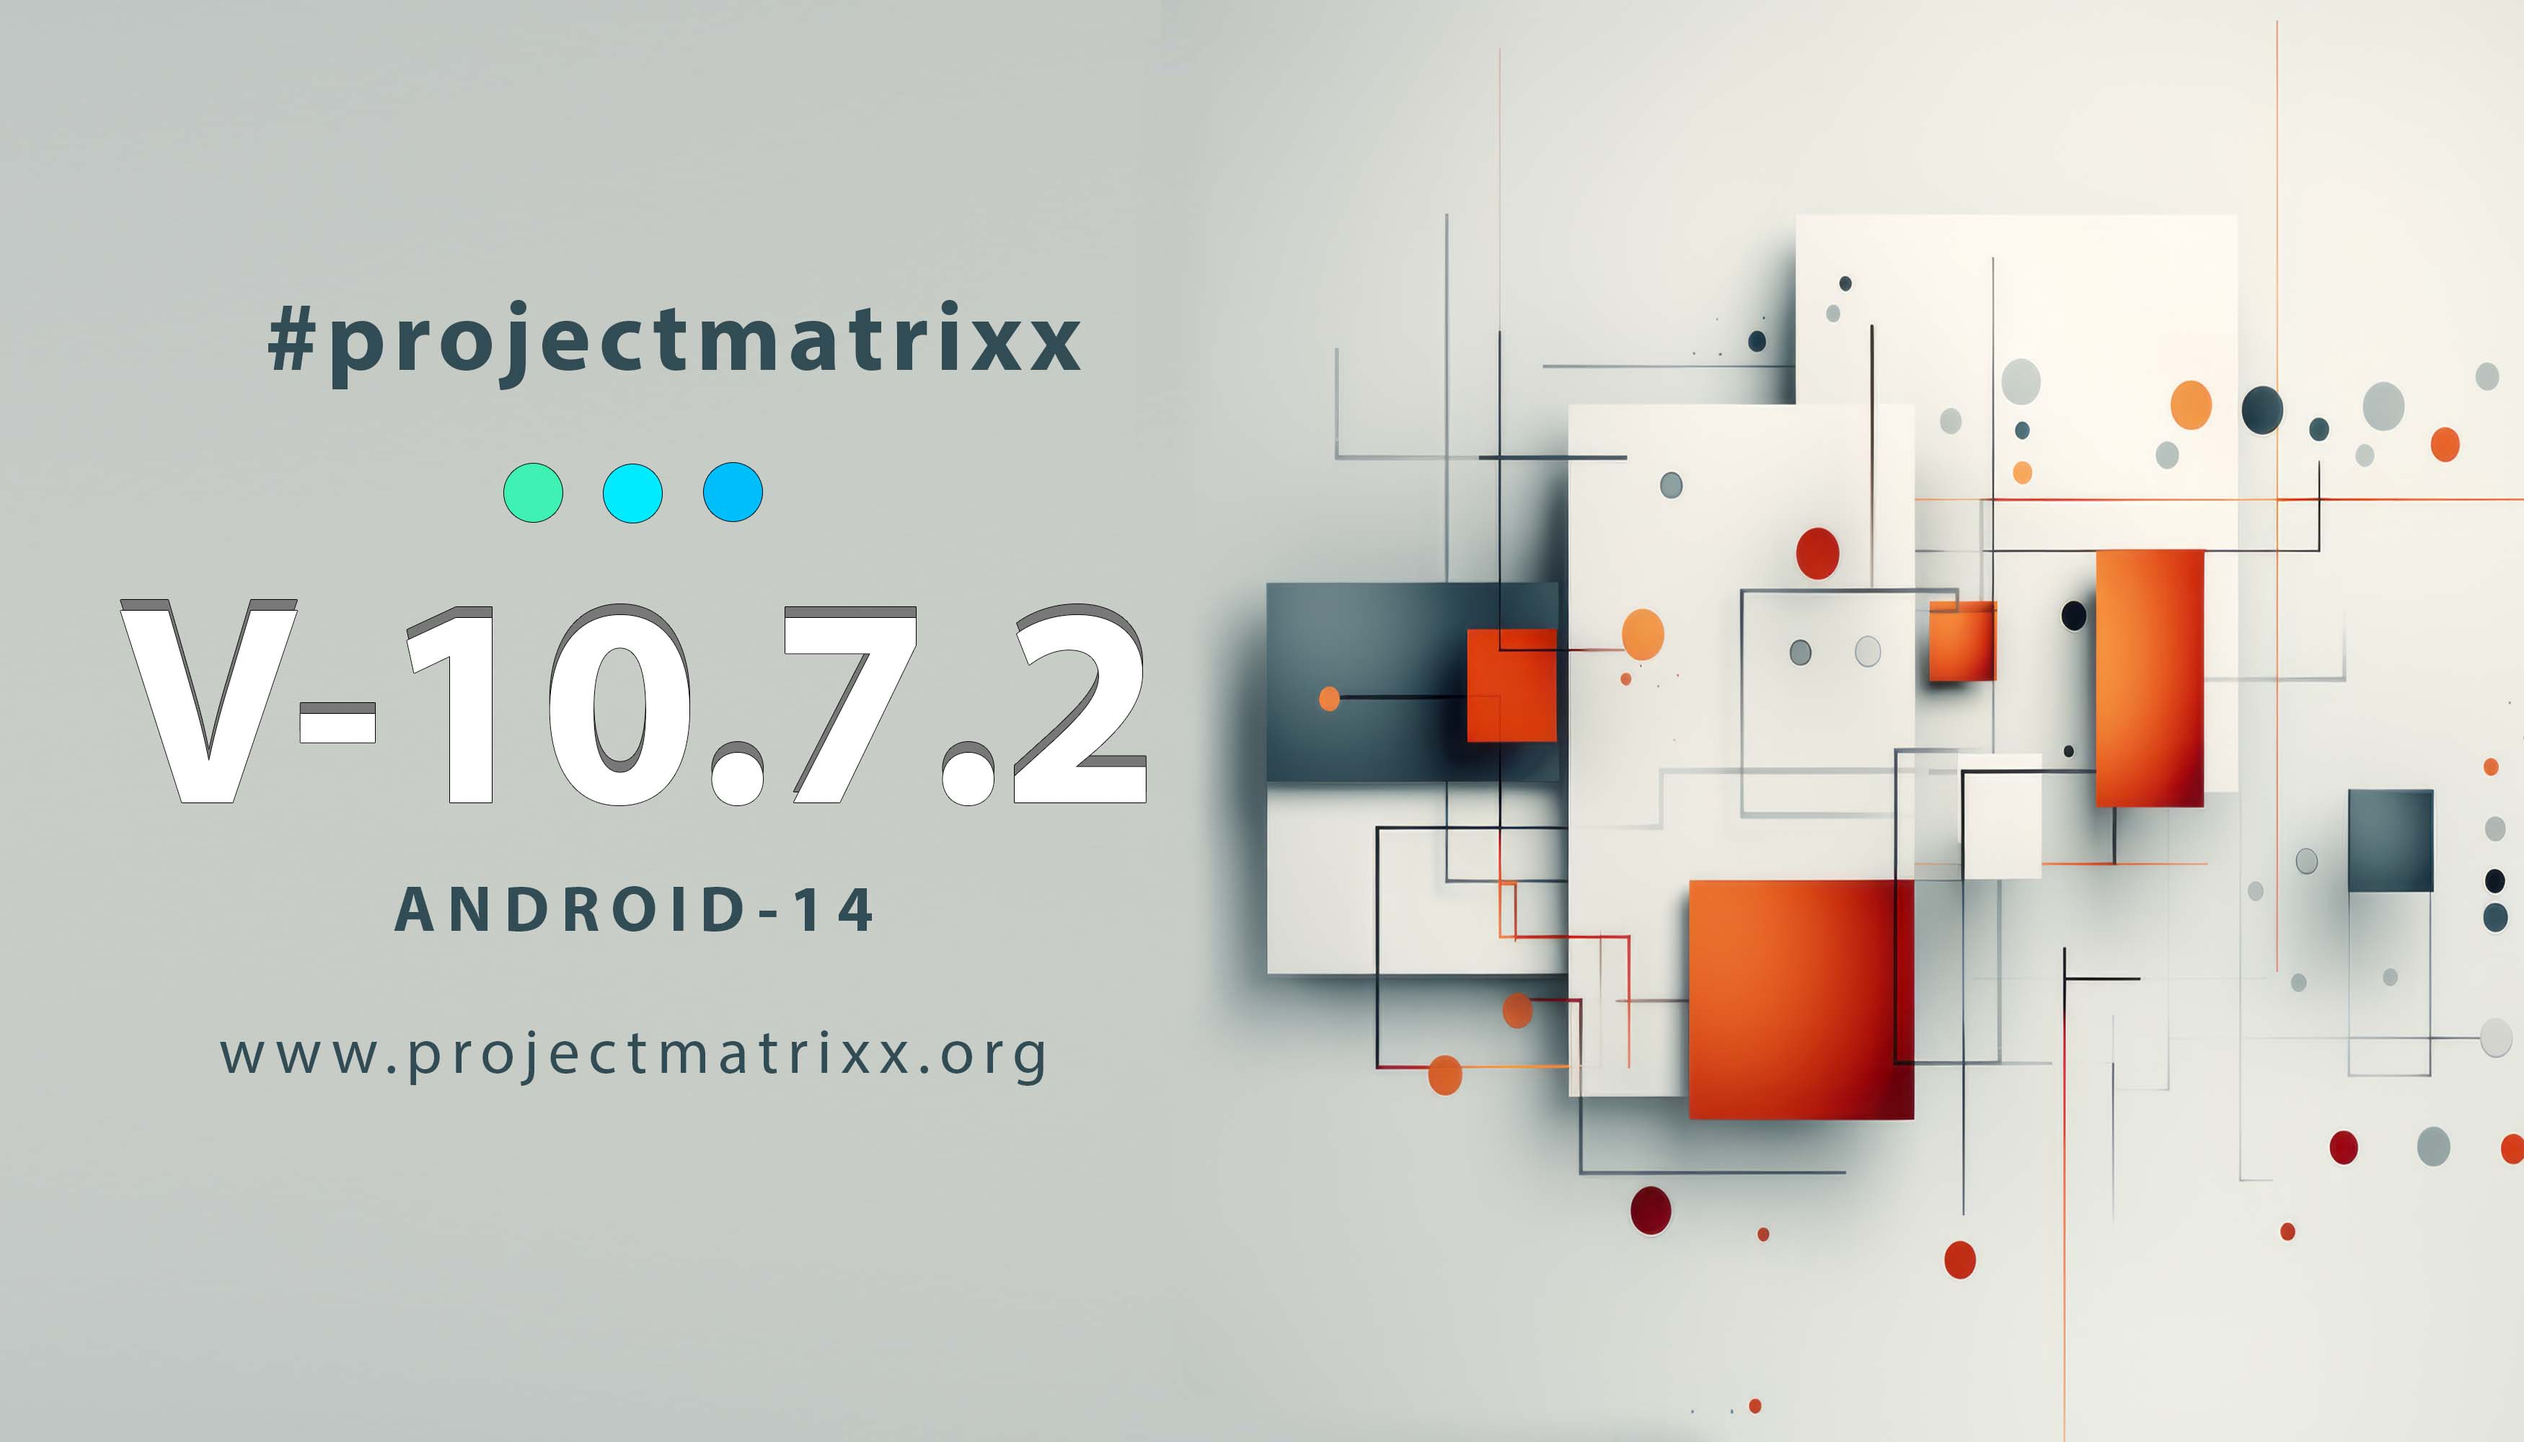
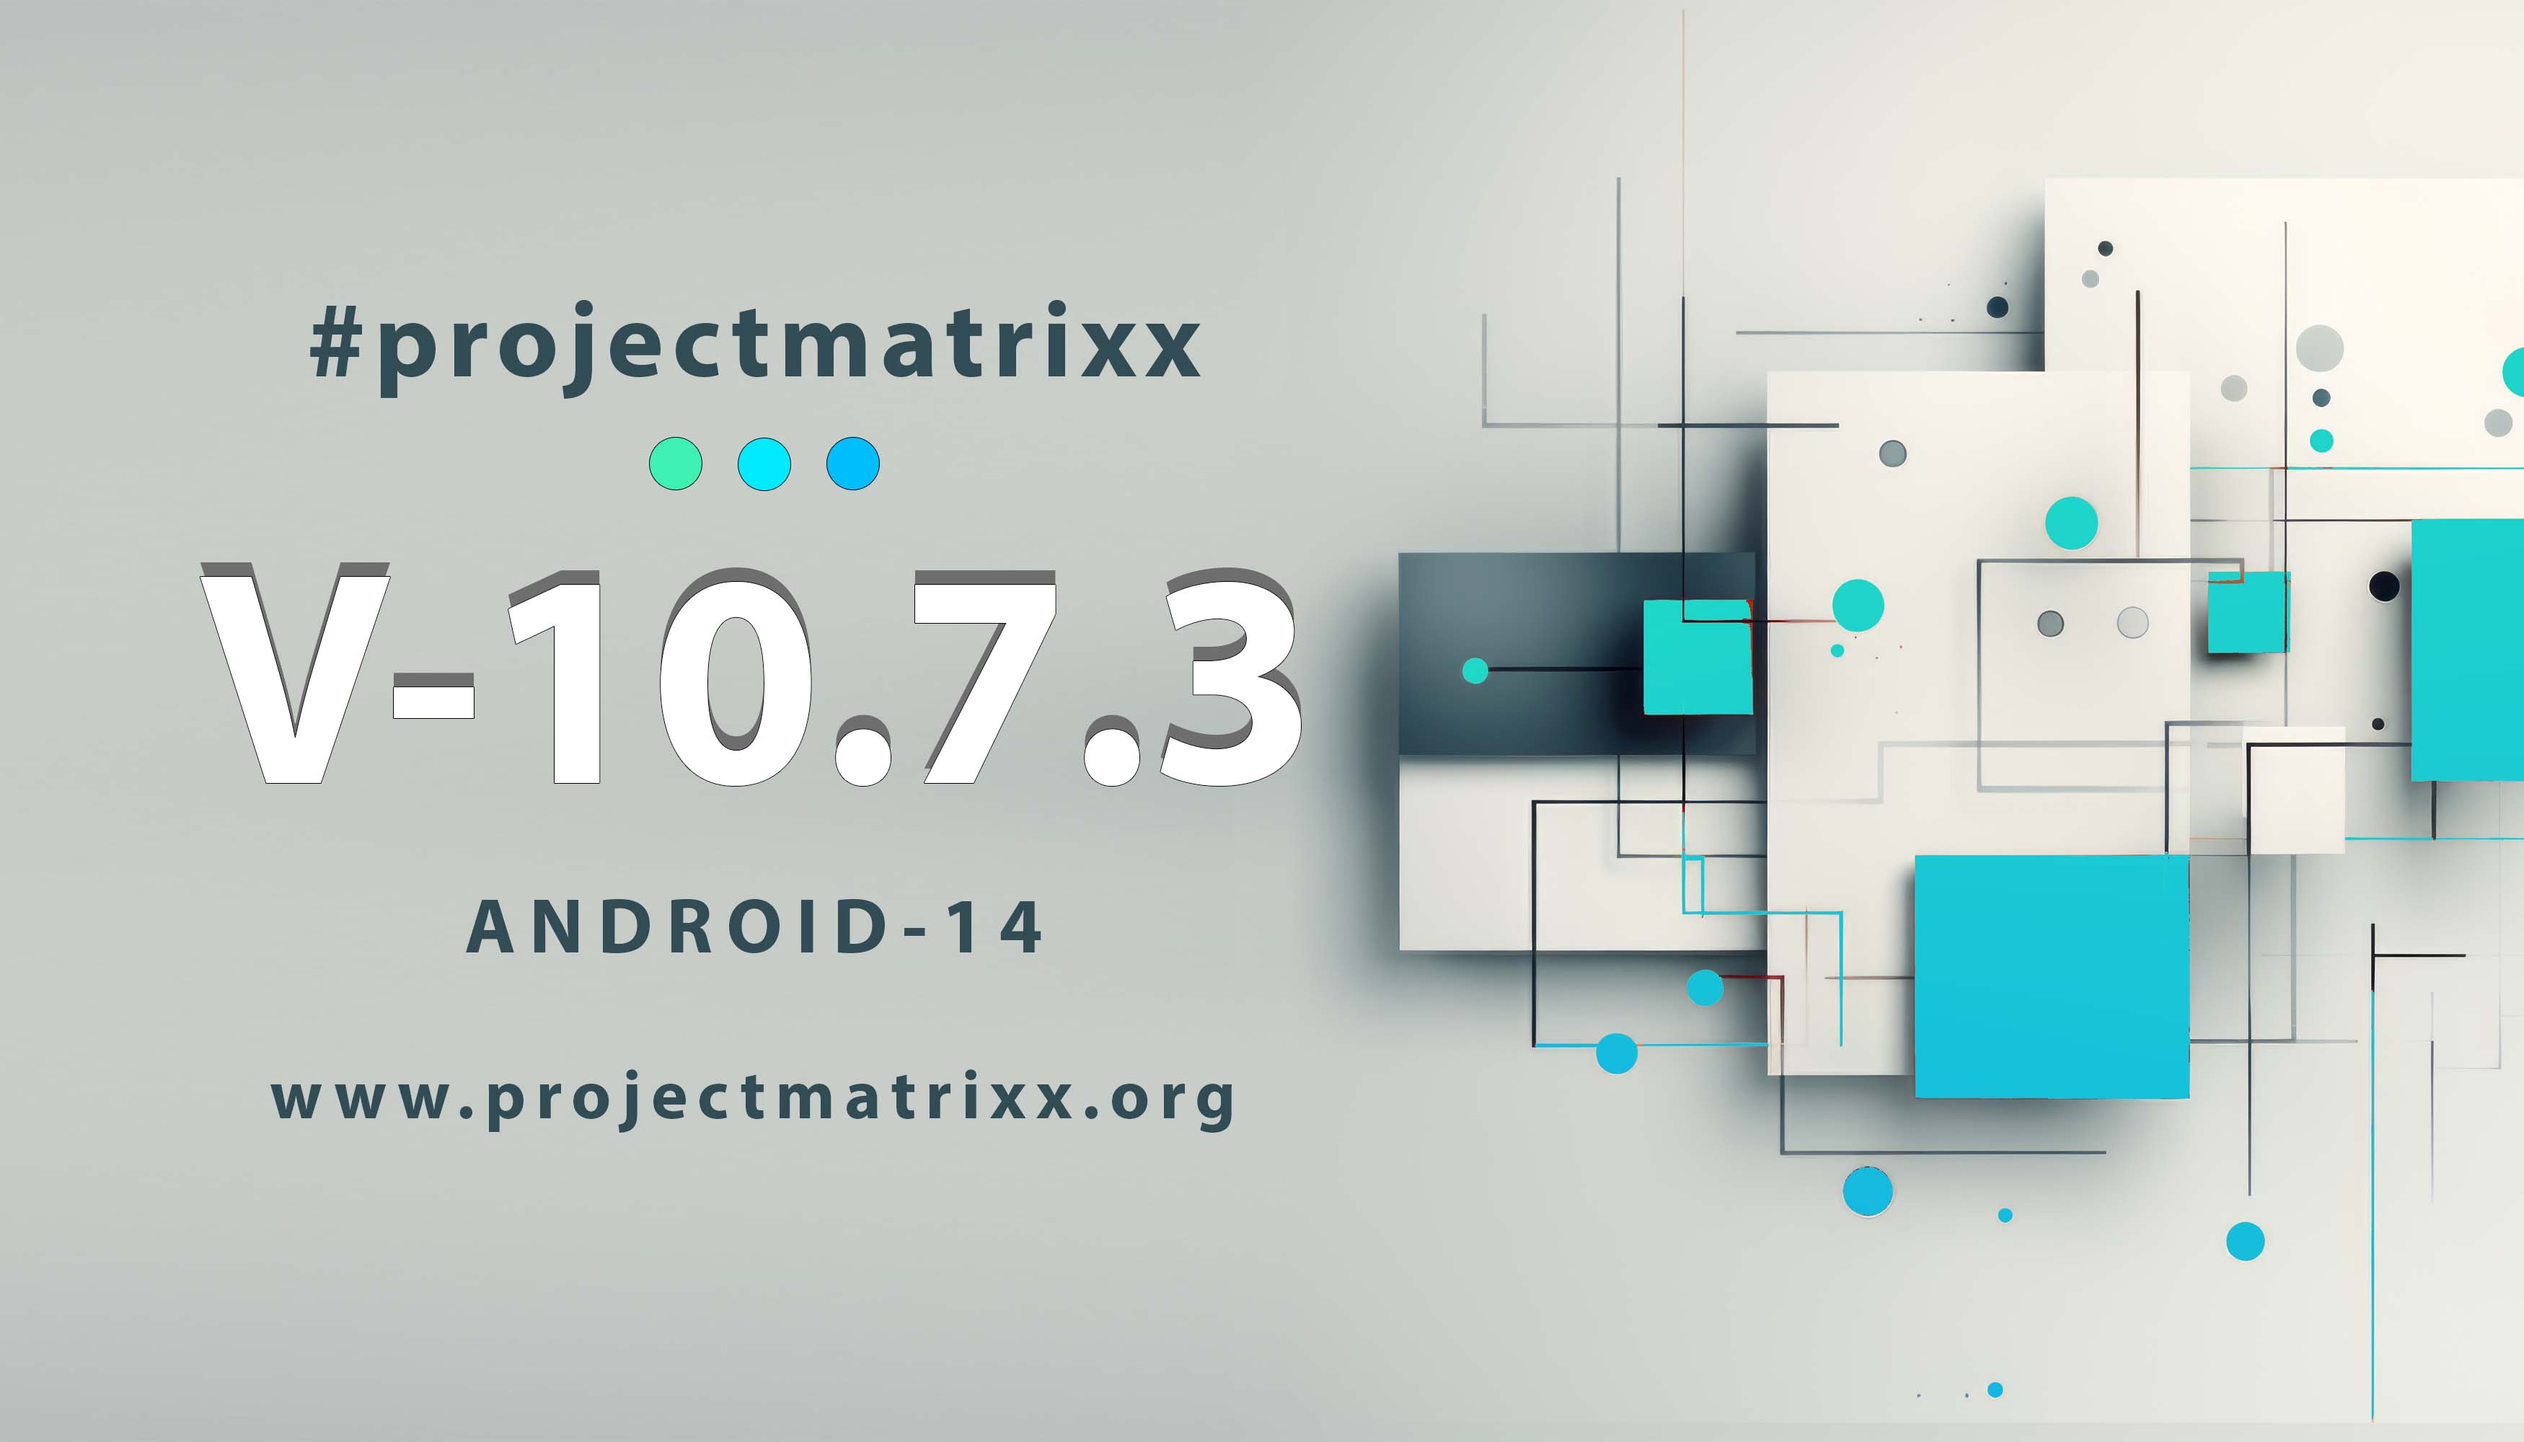
matrixx: 10.7.3 update

diff --git a/changelogs/source_changelog.md b/changelogs/source_changelog.md
@@ -1,3 +1,11 @@
+# Matrixx v-10.7.3 Changelog
+
+- Update release version to 10.7.3
+- Added support for json-based games spoofing
+- Added optional QS Split Shade
+- Fixed volume panel haptic feedback
+- Remove default action for three finger swipe
+
 # Matrixx v-10.7.2 Changelog
 
 - Update release version to 10.7.2
